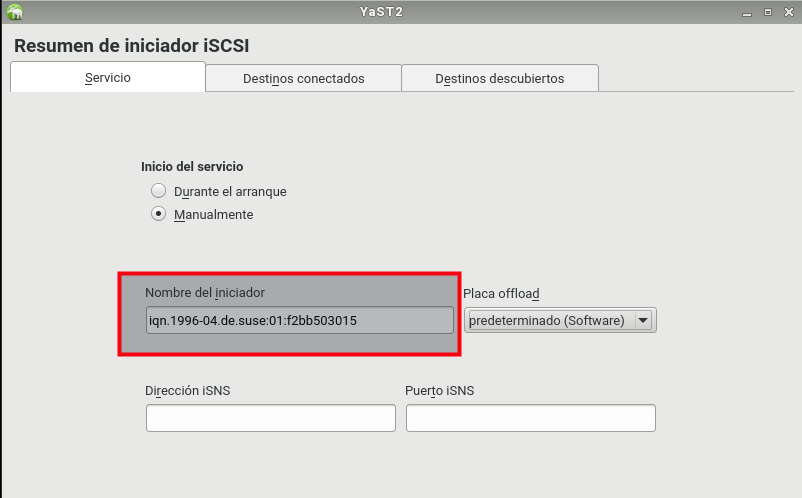
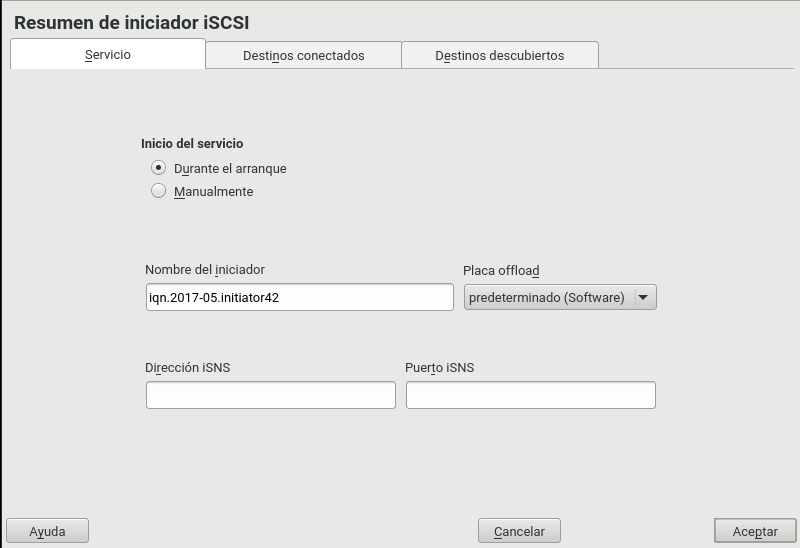
U new images

diff --git a/actividades/fuw/almacenamiento/iscsi-opensuse.md b/actividades/fuw/almacenamiento/iscsi-opensuse.md
@@ -102,9 +102,10 @@ En nuestro ejemplo, configurando estos tres parámetros nos basta.
 
 ## 3 Práctica: Initiator
 
-* Consultamos el identificador iqn del Initiator y lo apuntamos para usarlo más adelante.
-    * Por entorno gráfico, `Yast -> Iniciador SCSI`
-    * Por comandos, `more /etc/iscsi/initiatorname.iscsi`
+* Por entorno gráfico, `Yast -> Iniciador SCSI`
+* Modificamos el identificador iqn del Initiator con
+`iqn.2017-05.initiatorXX`.
+* Comprobamos por comandos, `more /etc/iscsi/initiatorname.iscsi`
 
 ![iscsi-opensuse-initiator-iqn.png](files/iscsi-opensuse-initiator-iqn.png)
 
@@ -139,25 +140,31 @@ Crear los dispositivos
 * Vamos a la máquina target.
 * `zypper in yast2-iscsi-lio-server`, instala el software para crear un Target iSCSI y sus dependencias.
 * Ir a `Yast -> Objetivo LIO iSCSI`, para configurar el Target.
-* Servicio
-    * Automático al inicio = Sí
+* Inicio del Servicio
+    * Durante el arranque = Sí
     * Abrir el cortafuegos = Sí
 * Global
     * Sin autenticación
 * Destinos(Dispositivos)
-    * Nombre `iqn.2017-05.nombre-del-target`. Por ejemplo `iqn.2017-05.vargas42target`.
+    * Nombre `iqn.2017-05.targetXX`.
     * Identificador `test`
     * Seleccionar los LUN (dispositivos creados anteriormente)
         * `Lun 0 Path=/home/dispositivo1.img,Type=fileio`
         * `Lun 1 Path=/dev/sdb,Type=fileio` (Escribir la ruta del dispositivo)
+    * Utilizar autenticación => NO
 
 ![iscsi-opensuse-target-destino.png](files/iscsi-opensuse-target-destino.png)
 
-* Pulsamos siguiente y vamos a configurar iniciador -> Añadir -> Ponemos el identificador de nuestro iniciador.
-* Siguiente -> Terminar.
-
 > El target tiene un identificador iqn y el iniciador tendrá otro iqn diferente.
 > En el target hay que habilitar permiso de acceso al iqn del Iniciador.
+
+* Pulsamos siguiente y vamos a configurar iniciador -> Añadir -> Ponemos el identificador de nuestro iniciador.
+
+![iscsi-opensuse-target-initiator.png](files/iscsi-opensuse-target-initiator.png)
+
+* Siguiente -> Terminar.
+
+![iscsi-opensuse-target-finalconfig.png](files/iscsi-opensuse-target-finalconfig.png)
 
 ## 4.3 Comprobamos
 
@@ -167,25 +174,7 @@ Para activar todos los cambios hay que reiniciar el servidor Target iSCSI.
 * `systemctl status target.service`, comprueba el estado del servicio Target.
 * `systemctl enable target.service`, habilita el servicio Target para que se inicie automáticamente con cada reinicio.
 
-> * Ejecutamos `cat /proc/net/iet/volume` para comprobar los volúmes disponibles.
-Veamos un ejemplo:
->
-> ```
-> tid:1
-> name:iqn.2006-02.com.example.iserv:systems
->         lun:0 state:0 iotype:fileio path:/var/lib/xen/images/xen-1
->         lun:1 state:0 iotype:fileio path:/dev/hda4
-> ```
->
-> * Consultar contenido del fichero `etc/ietd.conf`. Veamos un ejemplo:
->
-> ```
-> Target iqn.2006-02.com.example.iserv:system2
->           Lun 0 Path=/dev/mapper/system-swap2
-> ```
-
-Ya tenemos nuestro servidor Target iSCSI instalado. Ahora necesitamos un iniciador
-iSCSI para que se conecte a nuestro target y empezar a usar el almacenamiento.
+Ya tenemos nuestro servidor Target iSCSI instalado. Ahora necesitamos un iniciador iSCSI para que se conecte a nuestro target y empezar a usar el almacenamiento.
 
 ---
 
@@ -203,7 +192,9 @@ Vamos a la máquina Iniciador.
 
 **Descubrir**
 
-* `Yast -> configurar Initiator -> Descubrir`, para descubrir los destinos de targets disponibles.
+* `Yast -> configurar Initiator -> Descubrir`, para descubrir los destinos de targets disponibles. Debemos especificar la IP del equipo target donde queremos descubrir los destinos disponibles.
+
+![iscsi-opensuse-initiator-descubrir.png](files/iscsi-opensuse-initiator-descubrir.png)
 
 > Otra forma de descubrir target es usando el siguiente comando por la consola:
 >
@@ -216,12 +207,18 @@ Vamos a la máquina Iniciador.
 **Conectar**
 
 * `Yast -> configurar Initiator -> Conectar` para conectar con el destino que hemos descubierto.
+* Elegimos: Inicio en el arranque y sin autenticación.
+
+![iscsi-opensuse-initiator-conectado.png](files/iscsi-opensuse-initiator-conectado.png)
 
 > Otra forma de conectar con el destino del Target vía comandos:
 >
 > * `iscsiadm -m node --targetname iqn.2017-05.curso1617.vargas42g:test -p IP-TARGET --login`,
 conectar un target concreto.
 > * `iscsiadm -m node -l`, conectar con todos los targets, usando una configuración básica sin autenticación.
+
+* Si hacemos `fdisk -l`, veremos que nos aparece un nuevo disco en
+el equipo iniciador.
 
 ## 5.2 Usar almacenamiento
 
